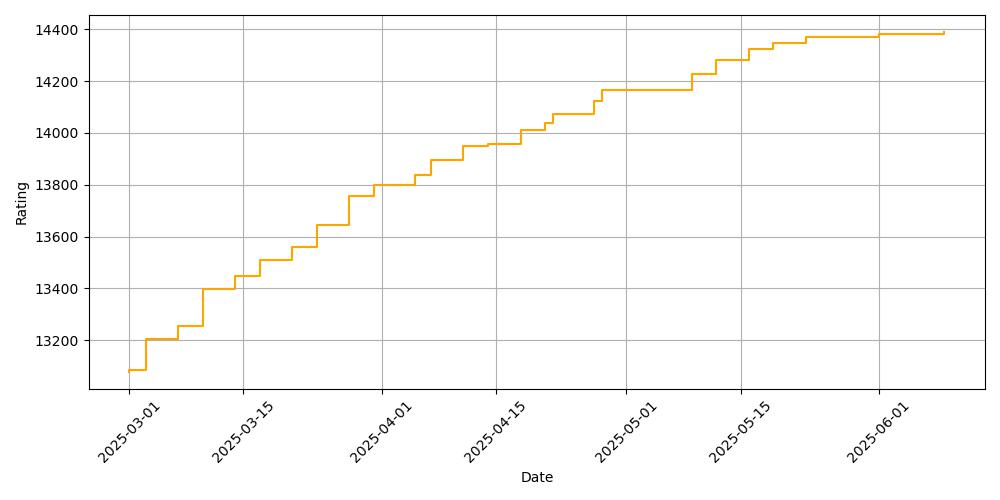
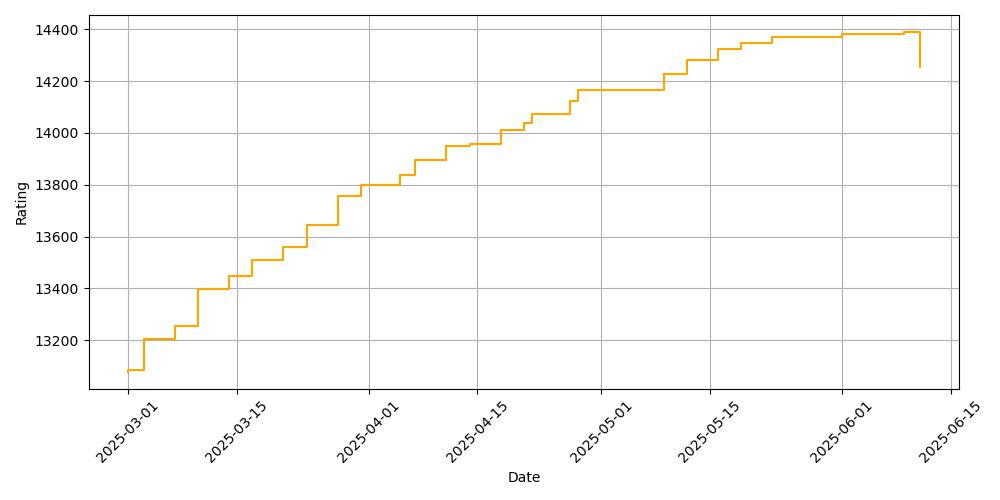
First update on PRiSM

diff --git a/history/graph.py b/history/graph.py
@@ -99,7 +99,7 @@ def main():
     real_diff = current_real_rating - last_real_rating
     print(f"Diff: {real_diff}")
 
-    if diff > 0:
+    if diff != 0:
         with open('history/rating.csv', 'a', newline='') as csvfile:
             writer = csv.writer(csvfile)
             writer.writerow([time, last_rating])
@@ -108,7 +108,7 @@ def main():
     else:
         print("No change in rating")
 
-    if real_diff > 0:
+    if real_diff != 0:
         with open('history/realrating.csv', 'a', newline='') as realcsvfile:
             writer = csv.writer(realcsvfile)
             writer.writerow([time, last_real_rating])
